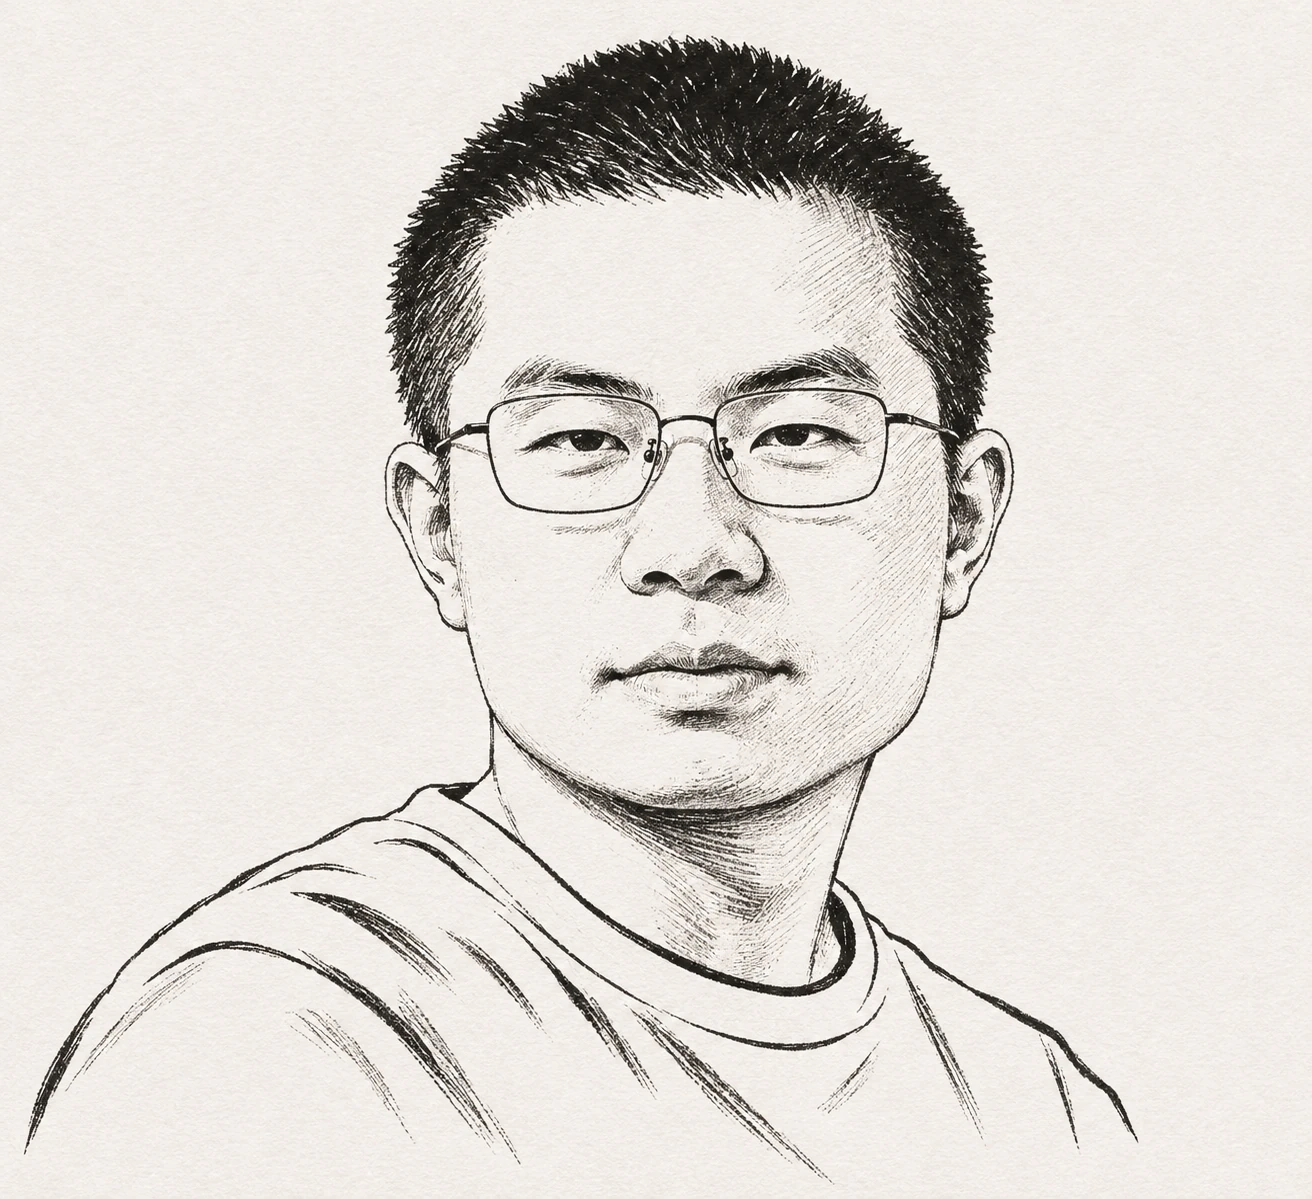
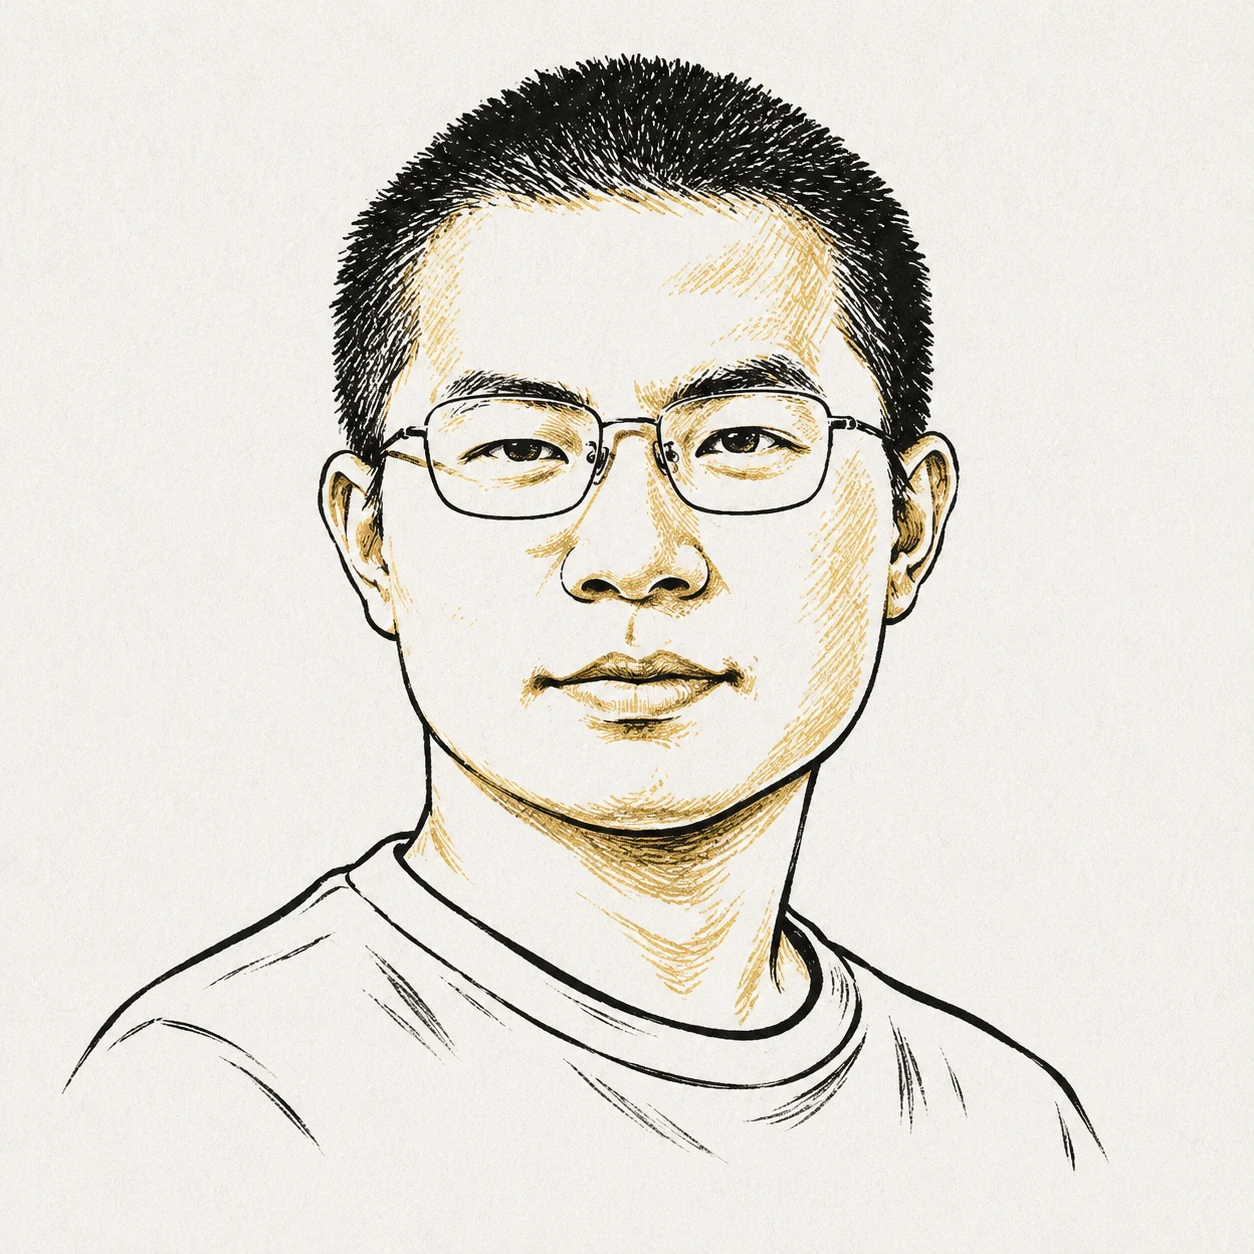
Replace both portrait sizes with the square black and gold artwork

Changed region(s): [[0.0311, 0.0309, 0.8708, 0.9566], [0.5909, 0.9566, 0.622, 0.9875], [0.0, 0.9258, 0.0311, 0.9566]]

diff --git a/index.html b/index.html
@@ -19,8 +19,8 @@
   <div class="page-shell">
     <aside class="sidebar" aria-label="Profile and navigation">
       <div class="identity">
-        <a class="portrait-link" href="assets/self-portrait-full.webp" title="View full-size self-portrait" aria-label="View full-size self-portrait of Jingyi Huang">
-          <img class="self-portrait" src="assets/self-portrait.webp" width="384" height="351" alt="Self-portrait of Jingyi Huang">
+        <a class="portrait-link" href="assets/self-portrait-full.webp?v=gold" title="View full-size self-portrait" aria-label="View full-size self-portrait of Jingyi Huang">
+          <img class="self-portrait" src="assets/self-portrait.webp?v=gold" width="384" height="384" alt="Black and gold self-portrait of Jingyi Huang">
         </a>
         <a class="identity-text" href="./" aria-label="Jingyi Huang, homepage">
           <span class="identity-name">Jingyi Huang</span>
